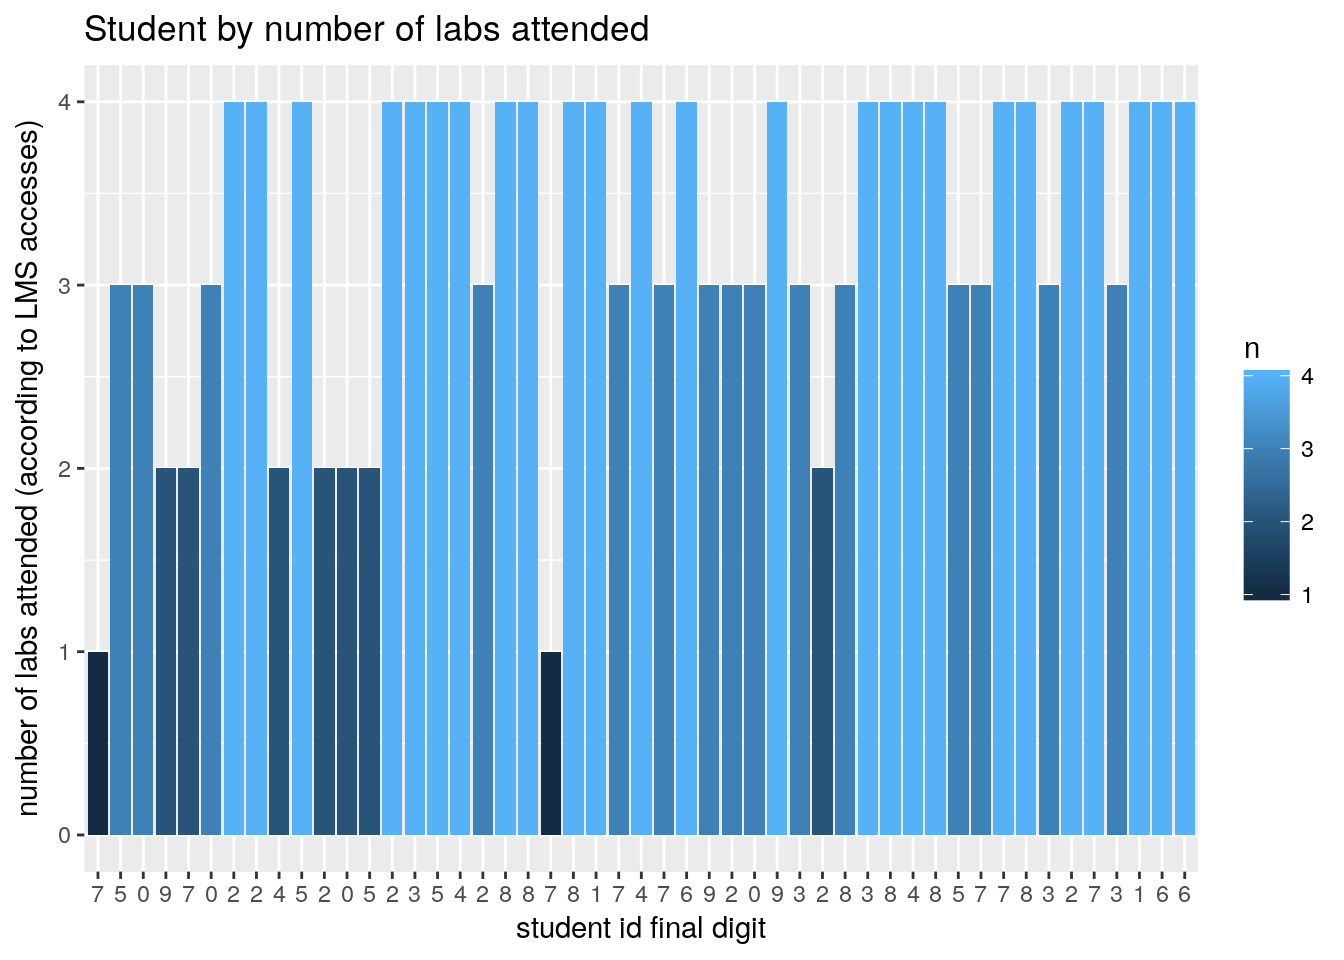
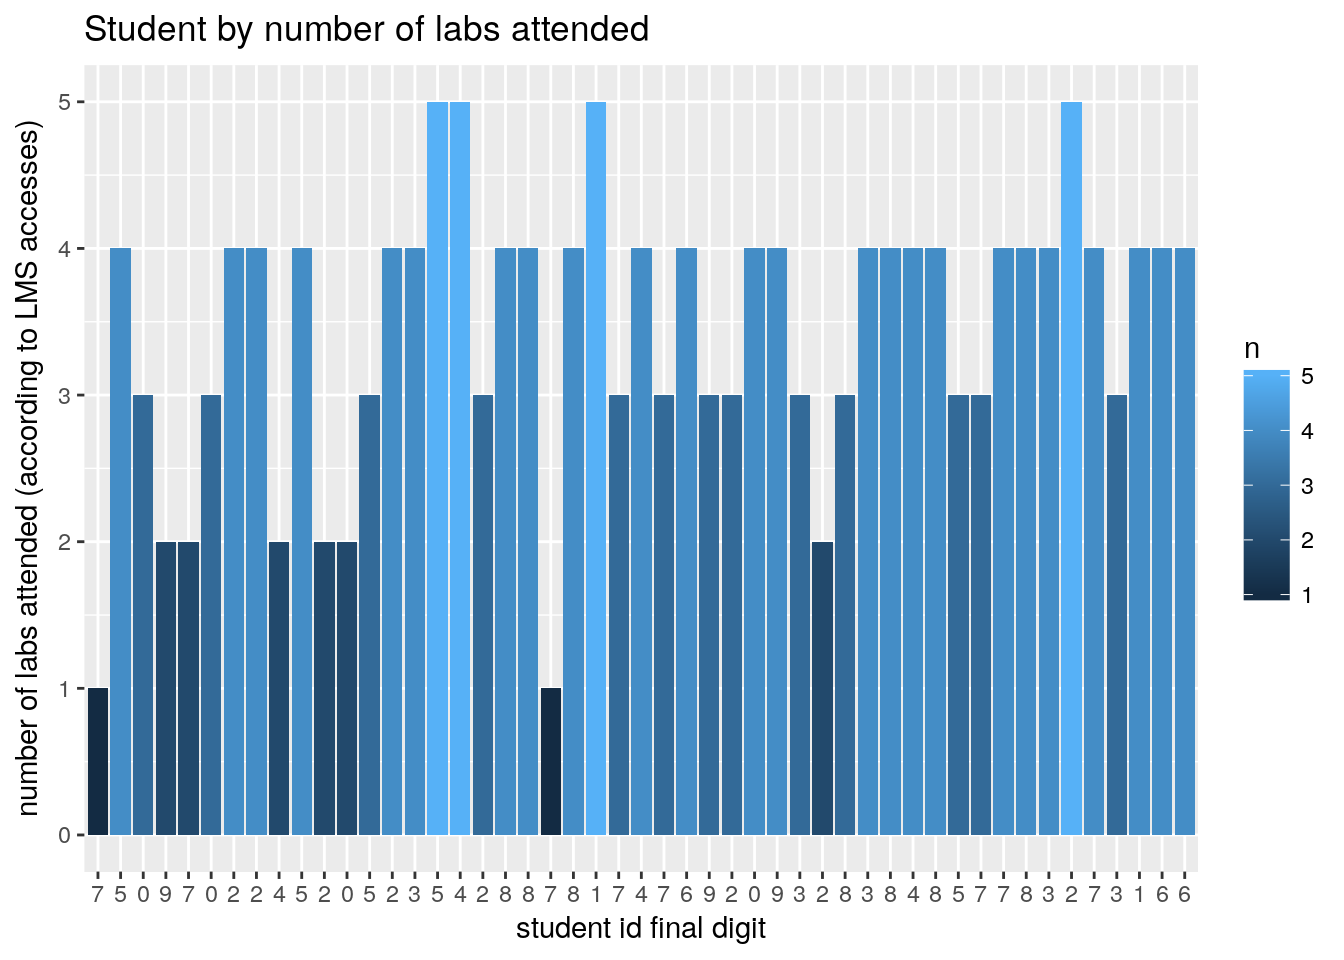
Build site.

diff --git a/docs/processIHBLogs.html b/docs/processIHBLogs.html
@@ -361,7 +361,7 @@ div.section {
 </details>
 </li>
 <li>
-<p><details> <summary> <strong style="color:blue;">✔</strong> <strong>Repository version:</strong> <a href="https://github.com/dewoller/LMS_reports/tree/cb47eb122071e78981cc1d337691fe72e0b71f3d" target="_blank">cb47eb1</a> </summary></p>
+<p><details> <summary> <strong style="color:blue;">✔</strong> <strong>Repository version:</strong> <a href="https://github.com/dewoller/LMS_reports/tree/ac5ead1bdca1077259e17f664049a0050b4402a1" target="_blank">ac5ead1</a> </summary></p>
 Great! You are using Git for version control. Tracking code development and connecting the code version to the results is critical for reproducibility. The version displayed above was the version of the Git repository at the time these results were generated. <br><br> Note that you need to be careful to ensure that all relevant files for the analysis have been committed to Git prior to generating the results (you can use <code>wflow_publish</code> or <code>wflow_git_commit</code>). workflowr only checks the R Markdown file, but you know if there are other scripts or data files that it depends on. Below is the status of the Git repository when the results were generated:
 <pre><code>
 Ignored files:
@@ -397,6 +397,23 @@ Message
 </tr>
 </thead>
 <tbody>
+<tr>
+<td style="text-align:left;">
+html
+</td>
+<td style="text-align:left;">
+<a href="https://cdn.rawgit.com/dewoller/LMS_reports/3b3ecd56f6be7a12dba08f8e3f22c37fb7455c0a/docs/processIHBLogs.html" target="_blank">3b3ecd5</a>
+</td>
+<td style="text-align:left;">
+Dennis Wollersheim
+</td>
+<td style="text-align:left;">
+2018-08-27
+</td>
+<td style="text-align:left;">
+Build site.
+</td>
+</tr>
 <tr>
 <td style="text-align:left;">
 html
@@ -640,10 +657,10 @@ wflow_publish(“analysis/processIHBLogs.Rmd”)
 </ul>
 <p></details></p>
 <hr />
-<div id="marks-for-the-class-logs_2018-him3hibbu-2him5ihbbu-2_20180823-0959.csv" class="section level1">
-<h1>Marks for the class logs_2018-HIM3HIB(BU-2)HIM5IHB(BU-2)_20180823-0959.csv</h1>
-<div id="for-the-period-2018-07-16-093000-2018-08-23-093900" class="section level2">
-<h2>For the period : 2018-07-16 09:30:00, 2018-08-23 09:39:00</h2>
+<div id="marks-for-the-class-logs_2018-him3hibbu-2him5ihbbu-2_20180827-1232.csv" class="section level1">
+<h1>Marks for the class logs_2018-HIM3HIB(BU-2)HIM5IHB(BU-2)_20180827-1232.csv</h1>
+<div id="for-the-period-2018-07-16-093000-2018-08-27-123100" class="section level2">
+<h2>For the period : 2018-07-16 09:30:00, 2018-08-27 12:31:00</h2>
 </div>
 </div>
 <div id="lab-attendence" class="section level1">
